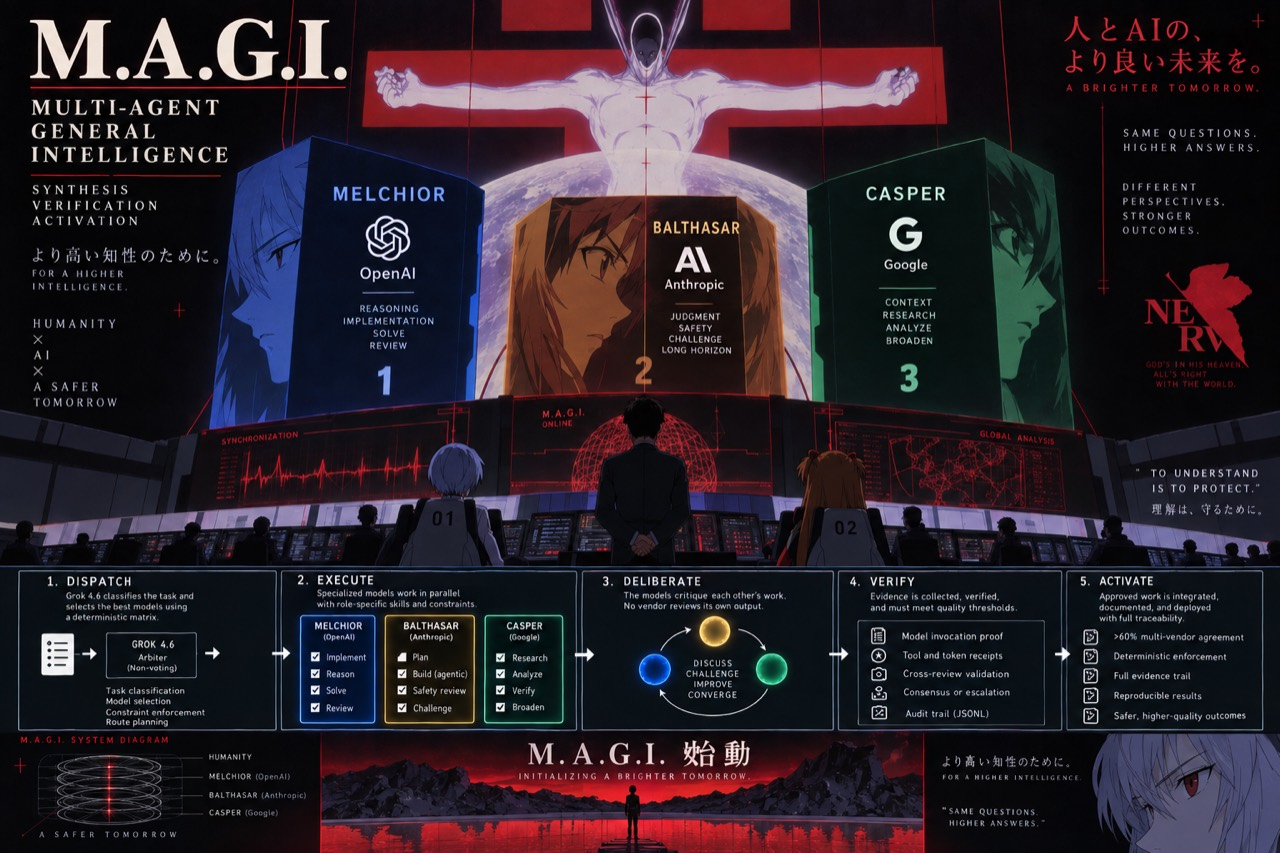
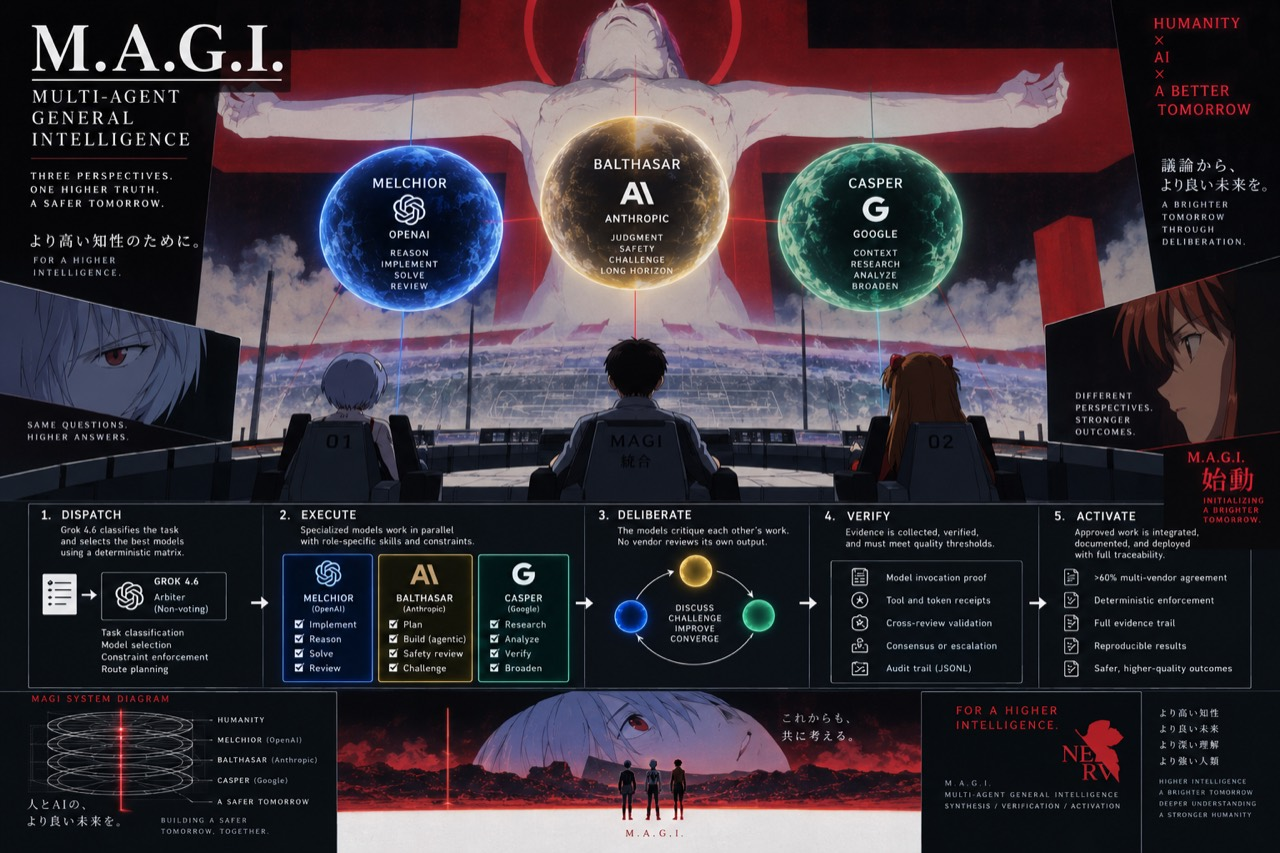
fix: place approved artwork in the website and README

diff --git a/site/index.html b/site/index.html
@@ -34,7 +34,7 @@
           </div>
         </div>
         <figure class="hero-art">
-          <img src="magi-site-hero.jpg" width="1280" height="853" alt="MAGI concept artwork: three glowing vendor cores overlook a shared command room, with the five-stage workflow below." fetchpriority="high" decoding="async">
+          <img src="magi-site-hero.jpg" width="1280" height="853" alt="MAGI concept artwork: Melchior, Balthasar, and Casper overlook a shared command room, with the five-stage workflow below." fetchpriority="high" decoding="async">
           <figcaption><span>Three vendor seats. One non-voting arbiter.</span><a href="magi-site-hero.jpg">Full artwork</a><a href="magi-core.svg">System diagram</a></figcaption>
         </figure>
       </div>
